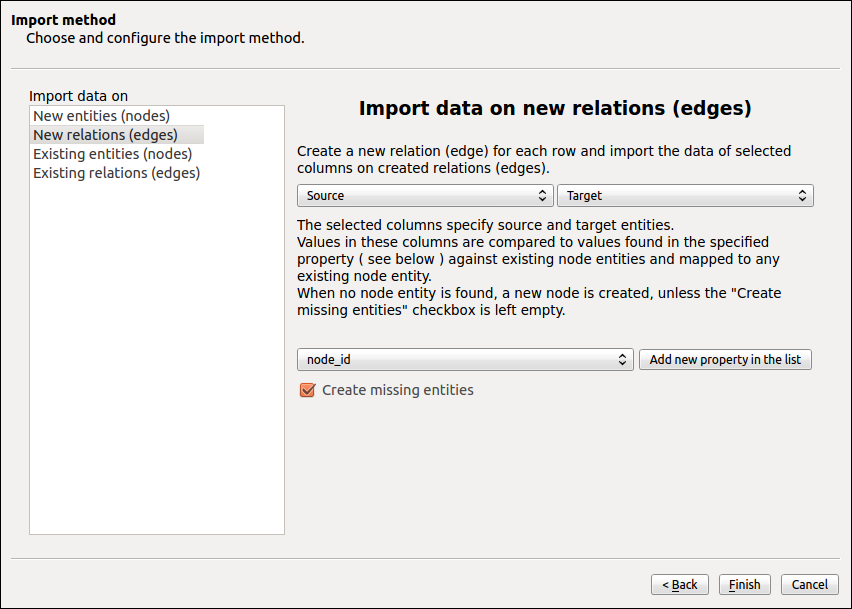
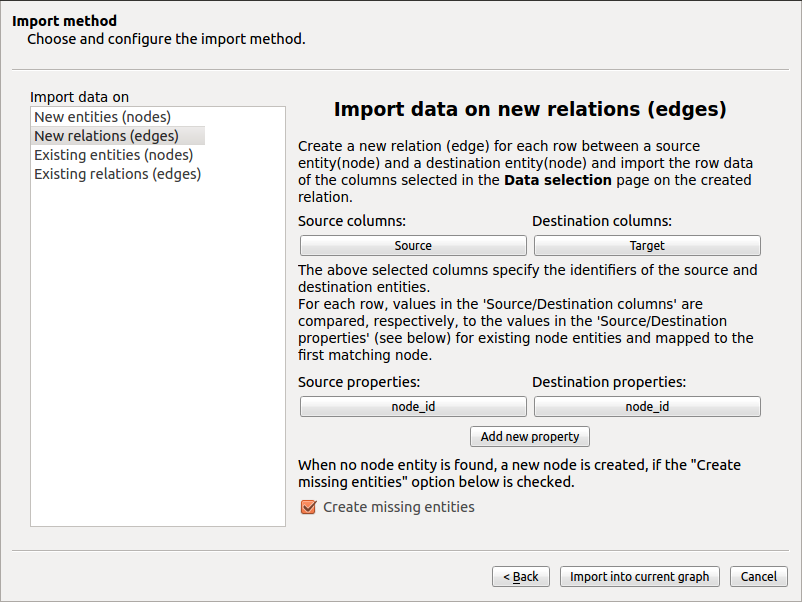
update for CSV import new edges part in user doc
git-svn-id: https://svn.code.sf.net/p/auber/code/tulip@10164 f5d4c5f9-c943-4916-8a57-bd8605bf961c

diff --git a/doc/user/functions.rst b/doc/user/functions.rst
@@ -10,7 +10,7 @@ Functionalities
 Hierarchy
 =========
 
-Tulip supports graphs hierarchies. The navigation among the tree of subgraphs can be done in the graph list view.
+Tulip supports graphs hierarchies. The navigation in the tree of subgraphs can be performed in the graph list view.
 
 
 .. _hierarchy_definition:
@@ -31,9 +31,9 @@ Subgraph
 
 A subgraph is simply a coherent subset of the graph elements: some nodes of the graph, and some edges between them (more informations: `Wikipedia: Subgraphs <http://en.wikipedia.org/wiki/Glossary_of_graph_theory#Subgraphs>`_).
 
-Specifically, the edge of a subgraph must already be present in the graph just above it in the hierarchical scale. A subgraph does not necessarily contains all the edges of the induced subgraph. For an edge to possibly be in the subgraph, both its endpoints must be in it.
+Specifically, the edge of a subgraph must already be present in the graph just above it in the hierarchical scale. A subgraph does not necessarily contains all the edges of the induced subgraph. If an edge belongs to a subgraph, its ends belong to the subgraph too.
 
-For instance, here is a subgraph containing the nodes consisting in the bottom half of Orion (but not all edges between them):
+For instance, here is a subgraph containing the nodes in the lower half of Orion (but not all edges between them):
 
 .. image:: _images/hierarchy_orion_partial_bot.png
     :width: 600
@@ -111,7 +111,7 @@ Removing / ungrouping a subgraph or meta-node
 
 You can delete a subgraph or a meta-node by selecting the appropriate option proposed in the menu opened with a right click on the graph name in the list.
 
-The removal of a subgraph is pretty straight forward. If *Delete* is chosen, only the current subgraph is removed, letting its subgraphs going one step up in the hierarchical scale. If *Delete all* is chosen, all the subgraphs are removed of the project.
+The removal of a subgraph is pretty straight forward. If *Delete* is chosen, only the current subgraph is removed, letting its subgraphs going one step up in the graphs hierarchy; its direct subgraphs become subgraphs of its parent graph. If *Delete all* is chosen, all the subgraphs are removed from the hierarchy.
 
 Deleting a meta-node removes all nodes in this particular meta-node, but not its representation in the other graphs. To properly delete the meta-node, you first need to ungroup it. By doing so, all the edges will resume to their old anchor nodes. This modification propagates through the hierarchy tree, up to the root. The subgraphs created with the meta-node are not deleted, however, the meta-node disappears as it is removed and the ungrouped nodes does not remplace it.
 
@@ -332,9 +332,9 @@ In the  current application, we want to import the edges on new relations (or ed
 .. image:: _images/csv_import_new_edges.png
     :width: 600
 
-A relation is defined by it's source entity id and it's destination entity id. For each row we compare source and destination ids to graph entities ids. If the source and destination ids correspond to existing entities ids a new relation is created between those entities. If there is no entities in the graph with such ids you can force the creation of missing entities with the “Create missing entities” option.
+A relation is specified by a source identifier and a destination identifier. Both identifiers are defined by the values in the source and destination columns. For each row we compare the values in the source and destination columns, to the values in the source and destination properties for all the existing node entities. If the source and destination identifiers correspond to existing node entities a new relation is created between those entities. If there is no entities in the graph with such identifier you can force the creation of missing entities with the “Create missing entities” option.
 
-A small modification in this case is made, we must specify the property against which we will map the target and source fields, in this example, the property is "node_id". Furthermore, during the importation and if the nodes and the edges share common properties names, you must allow the merging of the two fields. 
+In our example, instead of the "viewLabel" default property, we specify the previously created "node_id" property as the one against which we will map the "Source" and "Target" fields.
 
 
 .. _csv_import_final:
